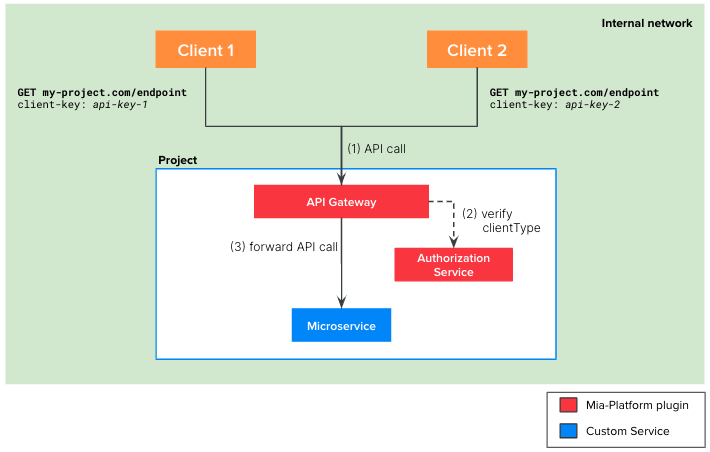
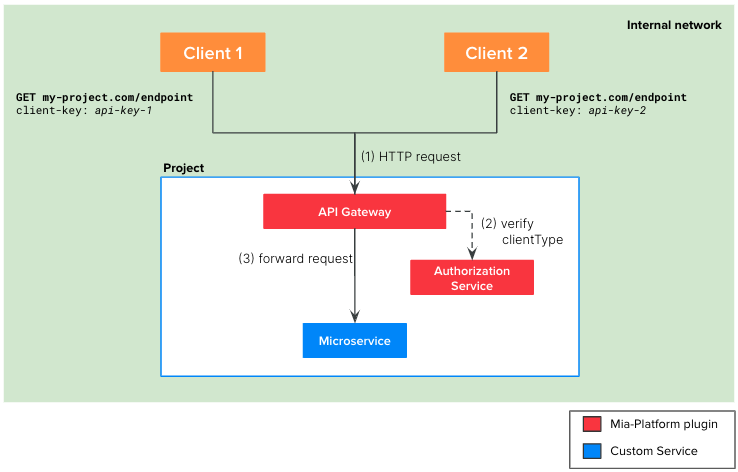
reword the scenario 1

diff --git a/docs/getting-started/tutorials/architecture/auth/static-api-key.md b/docs/getting-started/tutorials/architecture/auth/static-api-key.md
@@ -12,17 +12,17 @@ The authentication method suggested in this scenario is straightforward but come
 
 ## Definition
  
-Basically, you can define a static client key for each client that needs to consume the APIs of your project. You can then decide which client has access to which APIs by configuring the correct group expression in the [Endpoints](/development_suite/api-console/api-design/endpoints.md#manage-the-security-of-your-endpoints) section.
+You can define a **static client key** for each client that needs to consume the APIs of your project. You can then decide which client has access to which APIs by configuring the correct group expression in the [Endpoints](/development_suite/api-console/api-design/endpoints.md#manage-the-security-of-your-endpoints) section.
 
 ![Scenario1](./img/auth-scenario1.png)
 
-The involved microservice of the flow at runtime are:
+The involved microservice of the flow are:
 1. `API Gateway`: Mia-Platform plugin available in [Nginx](/runtime_suite/api-gateway/10_overview.md) or [Envoy](/runtime_suite/envoy-api-gateway/overview.md)
 2. [`Authorization Service`](/runtime_suite/authorization-service/10_overview.md): Mia-Platform plugin
 3. The microservice connected to the endpoint 
 
-The picture above illustrates the auth flow at runtime:
-1. The client calls the endpoint of your project, placing their own API key in the `client-key` header (or in the `mia_client_key` cookie).
+The picture above illustrates the three steps of the auth flow:
+1. The client sends their HTTP request to the endpoint of your project, placing their own API key in the `client-key` header (or in the `mia_client_key` cookie).
 2. The API gateway resolves the client type from the `client-key` header. Then, it calls the Authorization Service which is in charge to verify if the resolved client type has access to the requested endpoint.
 3. If the client type verification performed by the authentication service is successful, the API Gateway forwards the API call the right microservice of the project.
 
@@ -31,7 +31,7 @@ The picture above illustrates the auth flow at runtime:
 We suppose that you have already created an API Gateway in your project and you already have some endpoints you want to secure.
 :::
 In order to implement the flow depicted above, you can perform the following steps on Mia-Platform Console:
-1. For each of the client that need to consume your APIs, create an API key:
+1. For each of the client that need to consume your HTTP APIs, create an API key:
     - Click on `API Key`
     - Click on `Add new`
     - Either manually create a key or generate a random one
@@ -44,7 +44,7 @@ In order to implement the flow depicted above, you can perform the following ste
 
 Once you deploy the above configuration, your clients will be able to call the protected endpoint only by providing one of the configured API keys either in the `client-key` HTTP header or in the `mia_client_key` HTTP cookie.  
 
-Furthermore, you could need to have a more fine-grained authorization to your endpoint. For example, suppose to have three different clients of your project: `A`, `B` and `C` but you want only `A` and `B` to access your endpoint.
+Furthermore, you could need to have a more fine-grained authorization to your endpoint. For example, suppose to have three different clients of your project: `A`, `B` and `C` but you only want `A` and `B` to access your endpoint.
 In this case, you need to:
 
 3. Create the `Authorization Service` plugin from Marketplace
